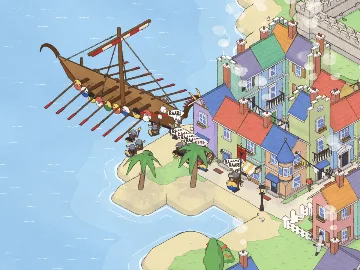
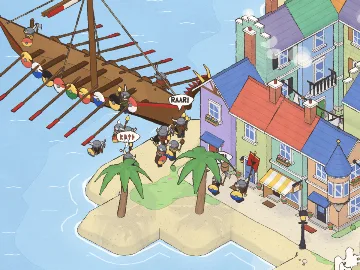
Raids: a sunk longship takes its yard under (it floated); the guide picture at the raiders' new size; the handoff for round 3

diff --git a/src/life/raid/vessel.ts b/src/life/raid/vessel.ts
@@ -152,7 +152,7 @@ export class Vessel {
     const beach = easeInOut(clamp01(this.beach));
     // Down by the stern and over to one side as it sinks: under the water, never shrunk.
     const s = clamp01(this.sink);
-    const y = SEA_Y + sw.heave * (1 - beach) + beach * 0.08 * this.size - s * s * (0.9 + this.length * 0.2);
+    const y = SEA_Y + sw.heave * (1 - beach) + beach * 0.08 * this.size - s * s * (0.9 + this.length * 0.2 + (this.kind === 'ship' ? LONGSHIP.yardY * this.size : 0));
     const pitch = sw.pitch * (1 - beach) + beach * 0.07 - s * 0.35;
     const roll = sw.roll * (1 - beach) + s * this.list * 0.5;
     fly(this.x, y, this.z, this.yaw, pitch, roll, 1, this.m);

diff --git a/docs/swarm/handoff/raid.md b/docs/swarm/handoff/raid.md
@@ -78,6 +78,22 @@ the ship and the town chases them into the sea.
 - Guide picture: `node src/life/testing/raid-picture.mjs` writes
   `public/guide/raid.webp`.
 
+## Round 3 (Derek: too big, glitching at sea, standing in a line doing nothing)
+- Size: raiders are the townspeople's size at every zoom (`raiderScale()` is 1; the orchestrator's change).
+- The clump: `crowd.ts` `follow`'s last rule (no step closer than a body to anyone ahead) still made
+  raiders yield to each other, and walkers waited on the garrison's column (`bodies`) with `stuck` held
+  at 0, so they never thought again. Both are skipped for raiders; raiders take their own lanes across the
+  way (`startWalk`), skip single-file queueing (`mayEnter`). Building sites are targets (`Target.site`:
+  kicked a stage worse, a ladder or hod carried off); an early horn when the town offers nothing; no raid
+  on its own at a town over 40 % in ruins. Test: `raid.test.ts` "a town already wrecked and mending".
+- The sea: a boat casting off was lerped from its tow onto its way at up to 0.75 a frame (now its way
+  starts where it lies, `castOff`); figures aboard were placed on the hull's previous frame and only every
+  other frame (now vessels are drawn first and figures aboard are `rigid`, every frame). Test: "whoever is
+  aboard moves rigidly with the vessel every frame".
+- Also: one war-cry balloon to a knot of raiders; finer brand smoke; boarding from near the spot (the ship
+  waited 40 s for one who could not reach it; now 25 s at most); a sunk ship takes its yard under.
+- Sequence verb `knockall@0,0,0` (a town like his).
+
 ## For the Hand / thrown bodies
 Raiders ashore are ordinary crowd people: thrown and carried with no special
 case. A thrown raider's plan fails and the raid gives him the next one; one
